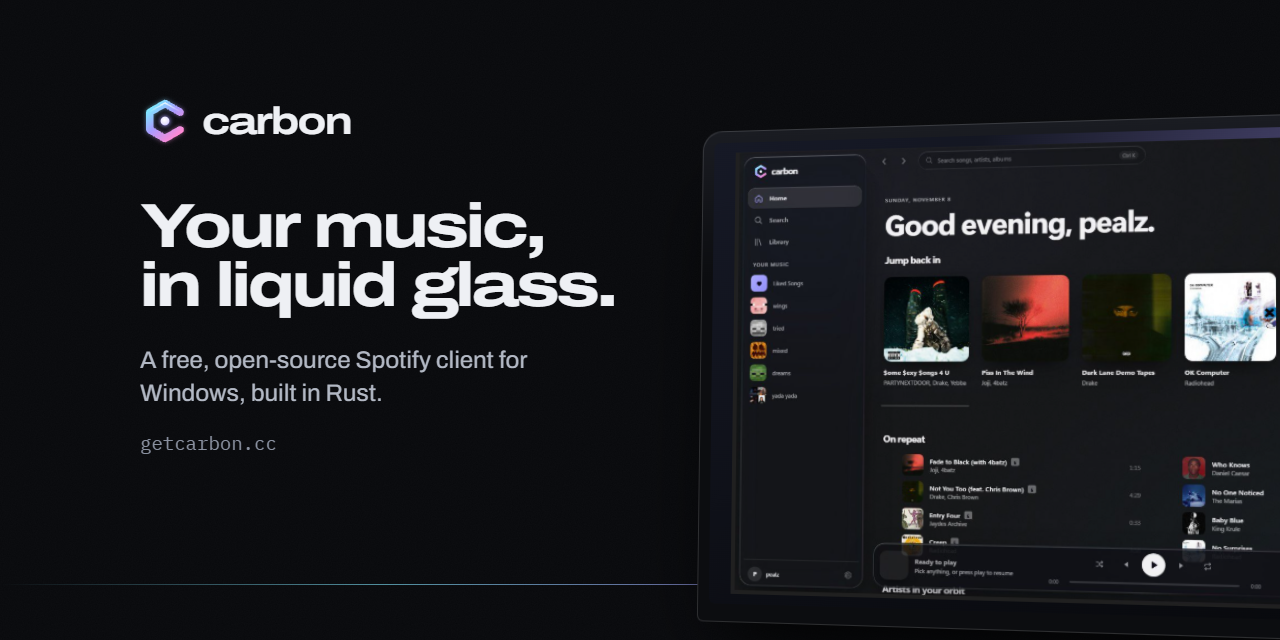
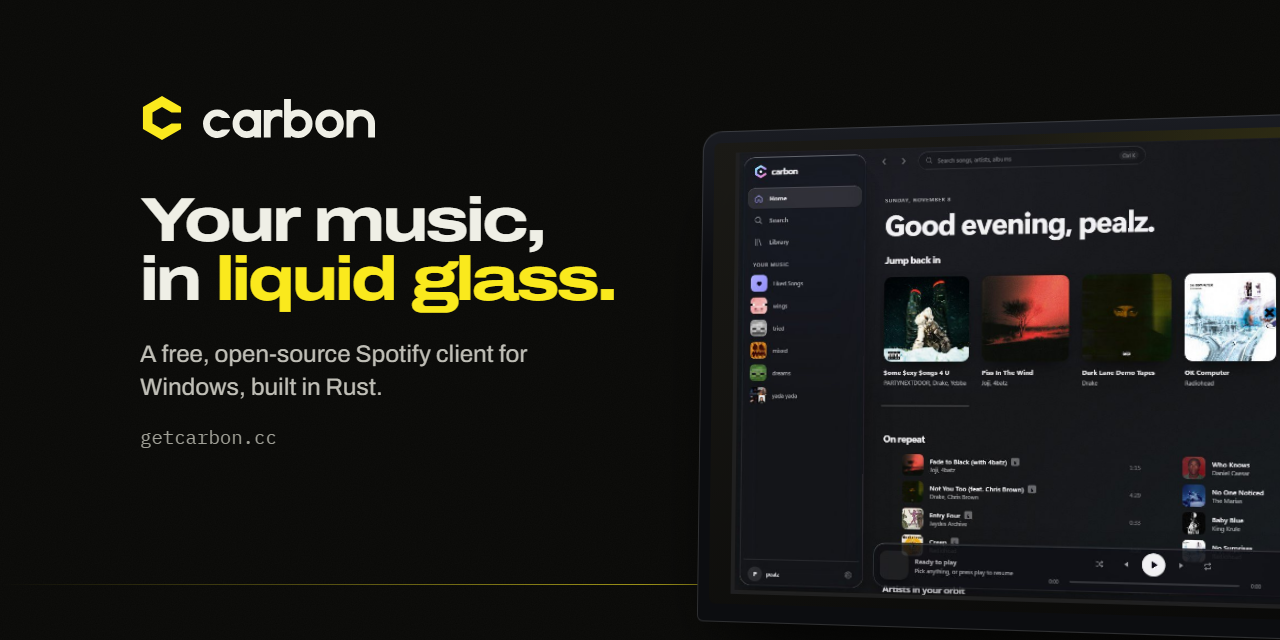
docs: re-render social images and README badges for the yellow brand

diff --git a/website/social/social.css b/website/social/social.css
@@ -1,17 +1,14 @@
 /* Styles for the social/icon render templates only (not deployed). */
 :root {
-  --c-base: #08090c;
-  --c-ink: #eef0f4;
-  --c-ink-2: #b2b8c4;
-  --c-ink-3: #8a91a0;
+  --c-base: #090907;
+  --c-ink: #efefe6;
+  --c-ink-2: #bfbeb6;
+  --c-ink-3: #9f9f96;
   --c-white: #fff;
   --c-black: #000;
-  --c-cyan: #7fe7ff;
-  --c-violet: #a99cff;
-  --c-pink: #ff8ad4;
-  --c-icon-top: #23242e;
-  --c-icon-bottom: #08090c;
-  --c-aura: #6e5bff;
+  --c-yellow: #fae91d;
+  --c-icon-top: #2a2a25;
+  --c-icon-bottom: #0b0b09;
   --c-line: color-mix(in srgb, var(--c-white) 14%, transparent);
   --font: "Archivo", sans-serif;
   --mono: "IBM Plex Mono", monospace;
@@ -25,12 +22,15 @@ body::after { content: ""; position: absolute; inset: 0; background: url("../pub
   left: 0;
   right: 0;
   height: 1px;
-  background: linear-gradient(90deg, transparent, var(--c-cyan) 30%, var(--c-violet) 60%, var(--c-pink) 85%, transparent);
+  background: linear-gradient(90deg, transparent, var(--c-yellow) 50%, transparent);
   opacity: 0.6;
 }
 
 .copy { position: absolute; z-index: 2; }
-.brand { display: flex; align-items: center; gap: 12px; font-weight: 700; font-stretch: 125%; letter-spacing: -0.045em; }
+/* Lockup: mark 1.12x the wordmark ascender, gap half the mark width (brand/BRAND.md). */
+.brand { display: flex; align-items: center; }
+.brand img { width: auto; }
+h1 em { font-style: normal; color: var(--c-yellow); }
 h1 { font-weight: 750; font-stretch: 125%; line-height: 0.95; letter-spacing: -0.045em; }
 .sub { color: var(--c-ink-2); font-weight: 450; line-height: 1.4; }
 .url { font-family: var(--mono); color: var(--c-ink-3); }
@@ -52,16 +52,17 @@ h1 { font-weight: 750; font-stretch: 125%; line-height: 0.95; letter-spacing: -0
   border-radius: 6px;
   overflow: hidden;
   background:
-    radial-gradient(70% 80% at 78% 8%, color-mix(in srgb, var(--c-violet) 34%, transparent), transparent 60%),
-    linear-gradient(160deg, #161926, #07080b);
+    radial-gradient(70% 80% at 78% 8%, color-mix(in srgb, var(--c-yellow) 12%, transparent), transparent 60%),
+    linear-gradient(160deg, #1b1a16, #080807);
 }
 .laptop img { width: 94%; height: auto; display: block; }
 
 /* 1200 x 630 Open Graph */
 .og { width: 1200px; height: 630px; }
 .og .copy { left: 72px; top: 76px; width: 640px; }
-.og .brand { font-size: 40px; }
-.og .brand img { width: 52px; height: 52px; }
+.og .brand { gap: 20px; }
+.og .brand .mark { height: 46px; width: 46px; }
+.og .brand .word { height: 41px; }
 .og h1 { margin-top: 60px; font-size: 68px; }
 .og .sub { margin-top: 30px; font-size: 26px; max-width: 26ch; }
 .og .url { margin-top: 22px; font-size: 20px; }
@@ -71,8 +72,9 @@ h1 { font-weight: 750; font-stretch: 125%; line-height: 0.95; letter-spacing: -0
 /* 1280 x 640 GitHub social preview: text inside the central safe area */
 .gh { width: 1280px; height: 640px; }
 .gh .copy { left: 140px; top: 96px; width: 560px; }
-.gh .brand { font-size: 38px; }
-.gh .brand img { width: 50px; height: 50px; }
+.gh .brand { gap: 19px; }
+.gh .brand .mark { height: 44px; width: 44px; }
+.gh .brand .word { height: 39px; }
 .gh h1 { margin-top: 52px; font-size: 62px; }
 .gh .sub { margin-top: 28px; font-size: 24px; max-width: 30ch; }
 .gh .url { margin-top: 20px; font-size: 19px; }
@@ -85,9 +87,7 @@ h1 { font-weight: 750; font-stretch: 125%; line-height: 0.95; letter-spacing: -0
   height: 180px;
   display: grid;
   place-items: center;
-  background:
-    radial-gradient(circle at 30% 25%, color-mix(in srgb, var(--c-aura) 45%, transparent), transparent 70%),
-    linear-gradient(135deg, var(--c-icon-top), var(--c-icon-bottom));
+  background: linear-gradient(180deg, var(--c-icon-top), var(--c-icon-bottom));
 }
 .icon::after { display: none; }
-.icon img { width: 136px; height: 136px; }
+.icon img { width: 104px; height: 104px; }

diff --git a/website/social/github-social.html b/website/social/github-social.html
@@ -9,8 +9,8 @@
 <body class="gh">
   <div class="floor"></div>
   <div class="copy">
-    <p class="brand"><img src="../public/assets/carbon-mark.svg" alt="">carbon</p>
-    <h1>Your music,<br>in liquid glass.</h1>
+    <p class="brand"><img class="mark" src="../public/assets/carbon-mark.svg" alt=""><img class="word" src="../public/assets/carbon-wordmark.svg" alt="carbon"></p>
+    <h1>Your music,<br>in <em>liquid glass.</em></h1>
     <p class="sub">A free, open-source Spotify client for Windows, built in Rust.</p>
     <p class="url">getcarbon.cc</p>
   </div>

diff --git a/website/social/og.html b/website/social/og.html
@@ -9,8 +9,8 @@
 <body class="og">
   <div class="floor"></div>
   <div class="copy">
-    <p class="brand"><img src="../public/assets/carbon-mark.svg" alt="">carbon</p>
-    <h1>Your music,<br>in liquid glass.</h1>
+    <p class="brand"><img class="mark" src="../public/assets/carbon-mark.svg" alt=""><img class="word" src="../public/assets/carbon-wordmark.svg" alt="carbon"></p>
+    <h1>Your music,<br>in <em>liquid glass.</em></h1>
     <p class="sub">A free, open-source Spotify client for Windows.</p>
     <p class="url">getcarbon.cc</p>
   </div>

diff --git a/README.md b/README.md
@@ -6,11 +6,11 @@
 
 **A fast, beautiful Spotify client for Windows, built in Rust.**
 
-[![Latest release](https://img.shields.io/github/v/release/pealz1/carbon?style=flat-square&color=a99cff&label=release)](https://github.com/pealz1/carbon/releases/latest)
-[![Downloads](https://img.shields.io/github/downloads/pealz1/carbon/total?style=flat-square&color=7fe7ff)](https://github.com/pealz1/carbon/releases)
+[![Latest release](https://img.shields.io/github/v/release/pealz1/carbon?style=flat-square&color=fae91d&label=release)](https://github.com/pealz1/carbon/releases/latest)
+[![Downloads](https://img.shields.io/github/downloads/pealz1/carbon/total?style=flat-square&color=33332e)](https://github.com/pealz1/carbon/releases)
 [![CI](https://img.shields.io/github/actions/workflow/status/pealz1/carbon/ci.yml?branch=main&style=flat-square&label=ci)](https://github.com/pealz1/carbon/actions/workflows/ci.yml)
-[![License: MIT](https://img.shields.io/badge/license-MIT-ff8ad4?style=flat-square)](LICENSE)
-[![Stars](https://img.shields.io/github/stars/pealz1/carbon?style=flat-square&color=f1f1f4)](https://github.com/pealz1/carbon/stargazers)
+[![License: MIT](https://img.shields.io/badge/license-MIT-fae91d?style=flat-square)](LICENSE)
+[![Stars](https://img.shields.io/github/stars/pealz1/carbon?style=flat-square&color=efefe6)](https://github.com/pealz1/carbon/stargazers)
 
 [**Download**](https://github.com/pealz1/carbon/releases/latest) · [Website](https://getcarbon.cc) · [Setup guide](https://getcarbon.cc/setup) · [Report a bug](https://github.com/pealz1/carbon/issues/new/choose)
 
